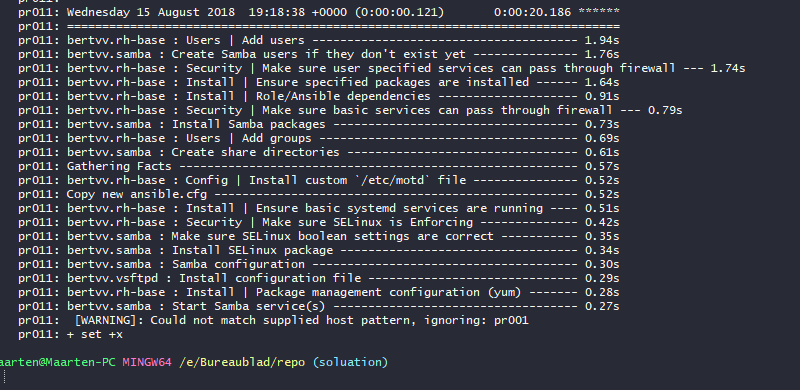
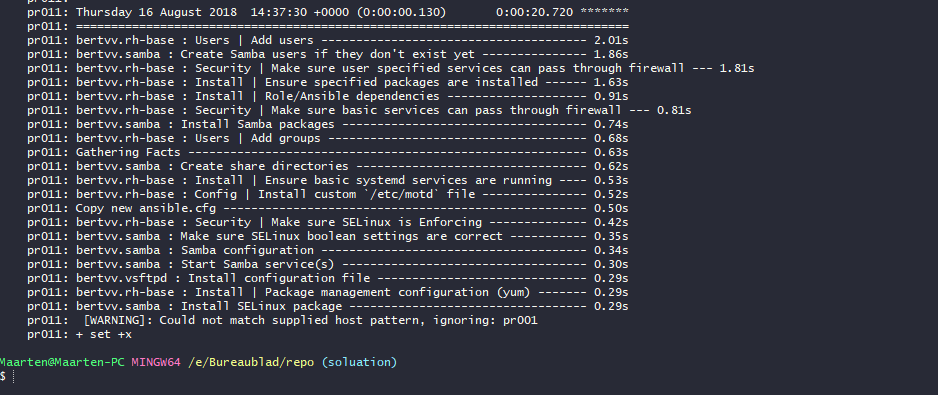
update

Changed region(s): [[0.0, 0.0, 0.8438, 0.9538], [0.875, 0.1538, 0.9375, 0.1846], [0.8125, 0.2769, 0.875, 0.3077]]

diff --git a/Actua/README.md b/Actua/README.md
@@ -18,14 +18,17 @@ In deze taak test ik alles telkens alleen op de server pr011. Ik voer ook altijd
 | **Type RAM-Geheugen**  | DIMM DDR3 | 
 | **Opslagtype**  | SSD | 
 | **Moederbord** | MS-7826 (Kaili)  |
-*Tabel: Specificaties HP Envy 700-014eb*
+
+*Tabel 1: Specificaties HP Envy 700-014eb*
 
 <img src="https://github.com/MaartenDeS/elnx-sme/blob/soluation/Actua/Foto's/hp.png" width="500">
 
-*Foto: HP Envy 700-014eb*
+*Foto 1: HP Envy 700-014eb*
 
+## Procedure/Documetation
 
-## Tijdsmeting Plugin
+### Tijdsmeting Plugin
+
 Het allereerste wat ik moet doen is een tijdsmeting plugin installeren zodat ik alles kan navolgen. Via het artikel van Johnson kwam ik op een Ansible plugin terecht. Deze plugin is gemaakt door jlafon en is voor Ansible 1.x en voor Ansible 2.0.
 
 Ik clownde de repository en volgde de instructies. Er waren 2 verschillende mogelijkheden om deze plugin toe te voegen. De eerste was voor Ansible 2.0, de andere voor Ansible 1.x. 
@@ -34,42 +37,88 @@ Voor de manier van Ansible1.x  moest ik de map **callback_plugins** met daarin d
 De manier voor Ansible 2.0 leek werkte helemaal anders. Hierin moest ik in de **ansible.cfg** file de lijn `` pipelining = True`` zetten op zich gee probleem. De opstelling gebruikte de default locatie van deze file *etc/ansible/ansible.cfg*. Deze kan je overriden door in je home directory ook een **ansible.cfg** file te zetten. In de opstelling is de home directory */home/vagrant/*. Eens ik deze had gevonden maakte ik in Ansible een pre_task aan zodat er elke keer de machine opstart een **ansible.cfg** file wordt toegevoegd in die map. In deze file stond de juiste setting dus wel aan.
 
 
-## Snelheid Normale Ansible
+### Snelheid Normale Ansible
 
-Nu kan ik de standaardtijden meten van Ansible. Ik doe 10 tijdsmetingen zodat ik een goed beeld heb van wat de normake tijd ongeveer is. Hieronder zijn de  de tijden een tabel gegooid voor een duidelijk overzicht. Ook ziet u een foto van hoe de weergave er uitzag
+Nu kan ik de standaardtijden meten van Ansible. Ik doe 10 tijdsmetingen zodat ik een goed beeld heb van wat de normale tijd ongeveer is. Hieronder zijn de  de tijden een tabel gegooid voor een duidelijk overzicht. Ook ziet u een foto van hoe de weergave er uitzag
 
 
 ![voorbeeld](https://github.com/MaartenDeS/elnx-sme/blob/soluation/Actua/Foto's/voorbeeld.png)
 
-*Foto: voorbeeld tijdsweergave*
+*Foto 2: voorbeeld tijdsweergave*
 
 
 
 | Tijdsmeting |Tijd (Plugin weergave - Seconden)               |
 | :---           | :---           |
-| Tijdsmeting 1  | 0:00:22 - 22 seconden     | 		
-|Tijdsmeting 2 | 0:00:21 - 21 seconden         | 
-| Tijdsmeting 3 |0:00:22 - 22 seconden        | 
-|Tijdsmeting 4 | 0:00:20 - 20 seconden     | 
-| Tijdsmeting 5| 0:00:21 - 21 seconden    | 
-| Tijdsmeting 6  | 0:00:21 - 21 seconden     | 		
-|Tijdsmeting 7 | 0:00:21 - 21 seconden         | 
-| Tijdsmeting 8 |0:00:24 - 24 seconden        | 
-|Tijdsmeting 9 | 0:00:20 - 20 seconden     | 
-| Tijdsmeting 10| 0:00:21 - 21 seconden    | 
+| Tijdsmeting 1  | 0:00:20.720 - 20.720 seconden     | 		
+|Tijdsmeting 2 | 0:00:20,923 - 20,923 seconden         | 
+| Tijdsmeting 3 |0:00:20,768 - 20,768 seconden        | 
+|Tijdsmeting 4 | 0:00:20,969 - 20,969 seconden     | 
+| Tijdsmeting 5| 0:00:22,731 - 22,731 seconden    | 
+| Tijdsmeting 6  | 0:00:20,915 - 20,915 seconden     | 		
+|Tijdsmeting 7 | 0:00:20,909 - 20,909 seconden         | 
+| Tijdsmeting 8 |0:00:20,902 - 20,902 seconden        | 
+|Tijdsmeting 9 | 0:00:20,897 - 20,897 seconden     | 
+| Tijdsmeting 10| 0:00:21,059 - 21,059 seconden    | 
 
-Hieruit kunnen we afleiden dat de gemiddelde normale tijd  21,4 seconden is, de mediaan is 21 seconden.
+*Tabel 2: Tijdsweergavenormale ansible*
+
+Hieruit kunnen we afleiden dat de gemiddelde normale tijd  21,079 seconden is, de mediaan is 20,912 seconden.
 
 
 
-## SSH pipelining
+### SSH pipelining
+
+SSH pipelining is volgens Johnson een makkelijke manier om Ansible te versnellen. Het is een ansible feature om het aantal verbindingen naar een host te verminderen. Ansible zou normaal een tijdelijke *~/.ansbible* (via SSH). Dan zulllen ze voor elke task de module kopiëren naar de directory met sftp of scp en dan deze module uitvoeren (weer met SSH). Als pipelining aanstaat zal Ansible maar 1 keer per taak connecteren met ssh namelijk met het uitvoeren met python. de module zal worden geschreven naar de stdin. Om deze functie aan te zetten heb je 2 mogelijkheden. Je kan dit doen via jouw **playbook** of via het **ansible.cfg** bestand.
+
+Voor de manier met het **ansible.cfg** bestand gaan we naar het ansible.cfg bestand dat we kopiëren naar onze home directory. In dat bestand voegen we de regel ``pipelining = True`` toe onder de regel `` [ssh_connection]``.
+
+De tweede manier met het **playbook** is een beetje anders. Daarbij voegen we bij ``- hosts: pr011`` eerst de regel ``vars: `` toe. Dan onder die regel met de juiste syntax voegen we de regel ``ansible_ssh_pipelining: yes``toe.
+
+Ik heb de manier in het **ansible.cfg** bestand toegpast. Om te bekijken of pipelining aanstaat gebruiken we het commando `` ansible localhost -vvv -m shell -a 'echo ok' ``. Als pipelining aanstaat krijg ik deze output(zie foto 3). Als pipeling uitstaat krijg je een veel langere output(zie foto 4). Dan roept hij 3 tot 5 keer het **command.py** bestand op. Op de foto duidelijk maar 1 keer en daaruit blijkt dat pipelining aanstaat.
+
+![pipeaan](https://github.com/MaartenDeS/elnx-sme/blob/soluation/Actua/Foto's/pipeaan.png)
+
+*Foto 3: SSH pipelining output - Pipelining aan*
+
+![pipeuit](https://github.com/MaartenDeS/elnx-sme/blob/soluation/Actua/Foto's/pipeuit.png)
+*Foto 4: SSH pipelining output - Pipelining uit*
+
+
+
+
+Ik doe weer 10 tijdsmetingen zodat ik weer een goed beeld heb van de gemiddelde tijd. Hieronder kan je de tijden vinden in een tabel
+
+
+| Tijdsmeting |Tijd (Plugin weergave - Seconden)               |
+| :---           | :---           |
+| Tijdsmeting 1  | 0:00:20,546 - 20,546 seconden     | 		
+|Tijdsmeting 2 | 0:00:20,620 - 20,620 seconden         | 
+| Tijdsmeting 3 |0:00:20,772 - 20,772 seconden        | 
+|Tijdsmeting 4 | 0:00:20,867 - 20,867 seconden     | 
+| Tijdsmeting 5| 0:00:20,787 - 20,787 seconden    | 
+| Tijdsmeting 6  | 0:00:20,881 - 20,881 seconden     | 		
+|Tijdsmeting 7 | 0:00:21,018 - 21,018 seconden         | 
+| Tijdsmeting 8 |0:00:20,738 - 20,738 seconden        | 
+|Tijdsmeting 9 | 0:00:20,727 - 20,727 seconden     | 
+| Tijdsmeting 10| 0:00:21,067 - 21,067 seconden    | 
+
+*Tabel 3: Tijdsweergave SSH pipelinning*
+
+Hieruit kunnen we afleiden dat de gemiddelde tijd  20,802 seconden is, de mediaan is 20,779 seconden.
+
+### ControlPersist
+
+
 
 
 
 
 
 ## Bronnen
-Johsnon - 2012: <https://adamj.eu/tech/2015/05/18/making-ansible-a-bit-faster>
+Johsnon - 2015: <https://adamj.eu/tech/2015/05/18/making-ansible-a-bit-faster>
 jlafon - 2016: <https://github.com/jlafon/ansible-profile>
-<http://itmithran.com/installation-configuration-ansible/>
-<http://toroid.org/ansible-ssh-pipelining>
+Ansible.cfg file manage: <http://itmithran.com/installation-configuration-ansible/>
+Uitleg SSH pipelining: <http://toroid.org/ansible-ssh-pipelining>
+Check Pipelining Aan: <https://stackoverflow.com/questions/43438519/check-if-ansible-pipelining-is-enabled-working>
+
